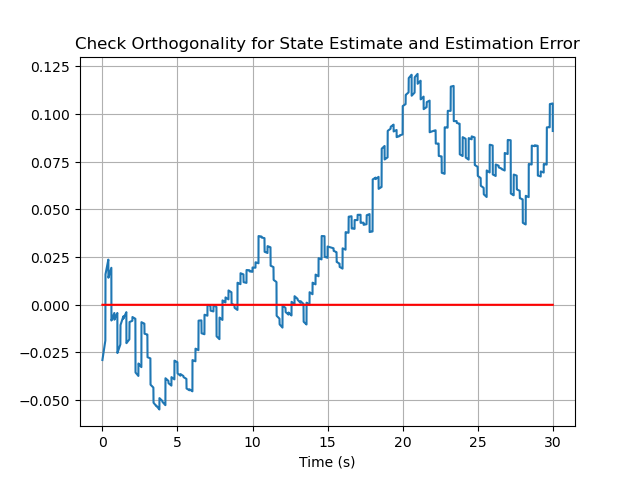
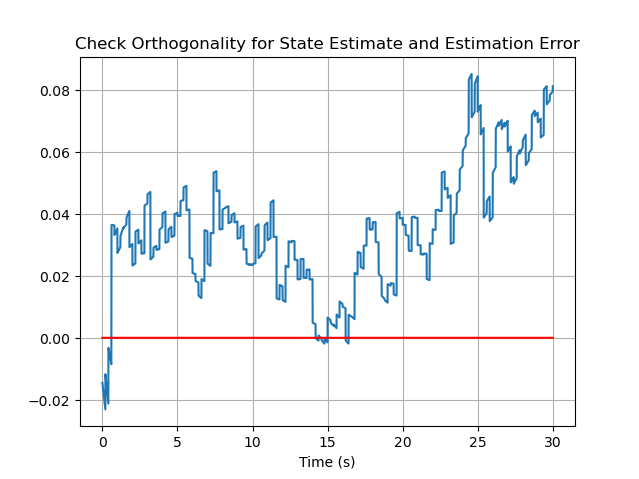
report complete v1

diff --git a/project_report/Project Report.md b/project_report/Project Report.md
@@ -123,8 +123,8 @@ From the System above that is independent from the acceleration profile, we can 
 - Initialize true states based on apirori statistics of the states. Initial state prediction will be the expected values of the states from the apriori statistics. Initial apriori error variance will be the state variances from the apriori statistics.
 
 - Begin loop:
-   - Aposteriori estimation for $t_k$
-      - If measurement obtained
+   - Aposteriori estimation for $t_k$:
+      - If measurement obtained:
       $$
       P_k = M_k - M_kH^T(HM_kH^T + V_{gps})^{-1}HM_k\\
       K_k = P_kH^TV^{-1}\\
@@ -144,42 +144,87 @@ From the System above that is independent from the acceleration profile, we can 
    M_k = \Phi P_k\Phi ^T + \Gamma W\Gamma^T
    $$
 
+   - For simulation analysis, propagate true state for $t_{k+1}$:
+   $$
+   \delta x_{k+1} = \Phi \delta x_k + \Gamma w_k
+   $$
+
 ## Results
+- Note: all plots have units in SI. For example, position will have units of m, position variance will have units of m^2, velocity will have units of m/s, velocity variance will have (m/s)^2, covariance of position and velocity will have (m^2/s), etc.
 
 ### One Realization Results
+Shown below is the state estimation error and the error variance matrix error for one realization. We want our estimation error to be small to show that the kalman filter gives accurate estimation of the states.
+
+State estimation error is calculated as
+$$
+e^l(t_k) = \delta x(t_k) - \delta x_{estimate}(t_k)
+$$
+
 ![est error plot](one_realiz_est_error_plot.png "Estimation Error Plot") |
 :--:|
-*Estimation Error Plot for 1 Realization* |
+*State Estimation Error Plot for 1 Realization* |
+
+P error is calculated as
+$$
+P_{error}(t_k) = P_{ave}(t_k) - P(t_k)
+$$
+
+where $P_{ave}$ is calculated from averaging over the outer product of the difference between $e^l$ and $E[e^l]$ over the ensamble of realizations.
+$$
+e^{ave}(t_k) = E[e^l(t_k)] = mean(e^l(t_k))\ (\sim 0)\\
+\tilde e_k = e^l_k - e^{ave}_k\ (\sim x - E[x] = \tilde x)\\
+P_{ave}(t_k) = E[\tilde e_k^\ \tilde e_k^T] = mean(\tilde e_k\ \tilde e_k^T)
+$$
 
 ![p error plot](one_realiz_P_error_plot.png "P Error Plot") |
 :--:|
 *P Error Plot for 1 Realization* |
 
-### Key Findings
+For this realization, the kalman filter is able to keep the states within the 1-sigma bound most of the time, showing its ability to converge the estimated states to the true states. The error covariance matrix is also really close to the true error covariance matrix calculated from averaging over 1000 realizations, showing that the kalman filter is programmed correctly.
 
-1. **Position and Velocity Estimation Errors:**
-   The errors for position and velocity consistently converged to zero, as shown in the figures. The 1-sigma bounds derived from the covariance matrix accurately captured the estimation uncertainty.
+### Ensamble Realizations Estimation Error Results
+We plot the average state estimation error $e^{ave}$ over 1000 realizations. They should be very close to 0 to show that there's no systematic error in the estimation process.
 
-2. **Bias Estimation:**
-   The filter successfully tracked the IMU bias over time, demonstrating its adaptability.
+![pos error plot](avg_pos_error_1000.png "Average Pos Error Plot") |
+:--:|
+*Average Position Estimation Error Plot for 1000 Realization* |
 
-3. **Residual Analysis:**
-   Residuals were uncorrelated, validating the filter’s assumptions.
+![vel error plot](avg_vel_error_1000.png "Average Vel Error Plot") |
+:--:|
+*Average Velocity Estimation Error Plot for 1000 Realization* |
 
-4. **Orthogonality:**
-   The orthogonality between estimation errors and the state estimates was confirmed, highlighting the filter’s optimality.
+![bias error plot](avg_bias_error_1000.png "Average Bias Error Plot") |
+:--:|
+*Average IMU Bias Estimation Error Plot for 1000 Realization* |
 
-## Analysis
+The above plots show that the average estimation error is reasonably small and close to 0. The average position error are relatively larger but could be explained by the large position error variance predicted by the kalman filter.
 
-The Kalman Filter’s performance was assessed using several metrics:
+### Orthogonality Check
+We want to check that on average over the ensamble of realizations, $\tilde e$ and $\hat x\ (E[x])$ are orthogonal to each other. The orthogonality between estimation error and state estimate will show how optimal the filter is. We take the dot product of the 2 vectors and expect them to be close to 0 if orthogonal.
+$$
+E[\tilde e_k^T\ \hat x_k] \sim 0\ \forall k\\
+mean(\tilde e_k^T\ \hat x_k) \sim 0\ \forall k
+$$
 
-- **Error Dynamics:** The error in position and velocity decreased exponentially, aligning with theoretical expectations.
-- **Covariance Consistency:** The estimated covariance bounds encompassed the true errors, indicating appropriate tuning of process and measurement noise parameters.
-- **Residual Statistics:** Residuals followed Gaussian distributions with zero mean, reinforcing the validity of the noise assumptions.
+![ortho plot](orthogonality_1000.png "Orthogonality Plot") |
+:--:|
+*Check $\tilde e$ and $\hat x$ Orthogonality. Average over 1000 Realizations* |
 
-Challenges observed included sensitivity to initial conditions and noise statistics. Robustness to parameter misestimation remains an area for further investigation.
+From the plot above, we can see that the average values are relatively small and close to 0, indicating some optimality in the filter performance.
+
+### Check Residual Independence
+We want to check that the residuals at different time are independent from each other because otherwise the process is not Markov. To show independence, the average of the dot product of two randomly picked residuals at different times should be close to 0.
+$$
+r^l_k = \delta z_k - H\delta x_{predicted, k}\\
+mean(r_i^{lT}\ r_j^l) \sim 0\ \forall i \ne j
+$$
+
+![residual correlation](residual_correlation_1000.png "Residual Correlation") |
+:--:|
+*Average Residual Correlation for 1000 Realization* |
+
+The above result is calculated from randomly choosing two time index and compute the average over 1000 realizations the dot product of the residuals at those two times. We can see that the residual correlation is a small number and we can safely assume that the noise generated is Markov.
 
 ## Conclusion
 
-The implemented Kalman Filter effectively estimated position, velocity, and bias for a single-axis motion system. Simulation results verified the filter’s accuracy and theoretical consistency. Future work may extend this implementation to multi-dimensional motion and incorporate adaptive noise modeling for enhanced robustness.
-
+The implemented Kalman Filter effectively estimated position, velocity, and bias for a single-axis motion system. Simulation results verified the filter’s accuracy and theoretical consistency. Future work may extend this implementation to multi-dimensional motion and possibly with other sensors for localization of the vehicle.
